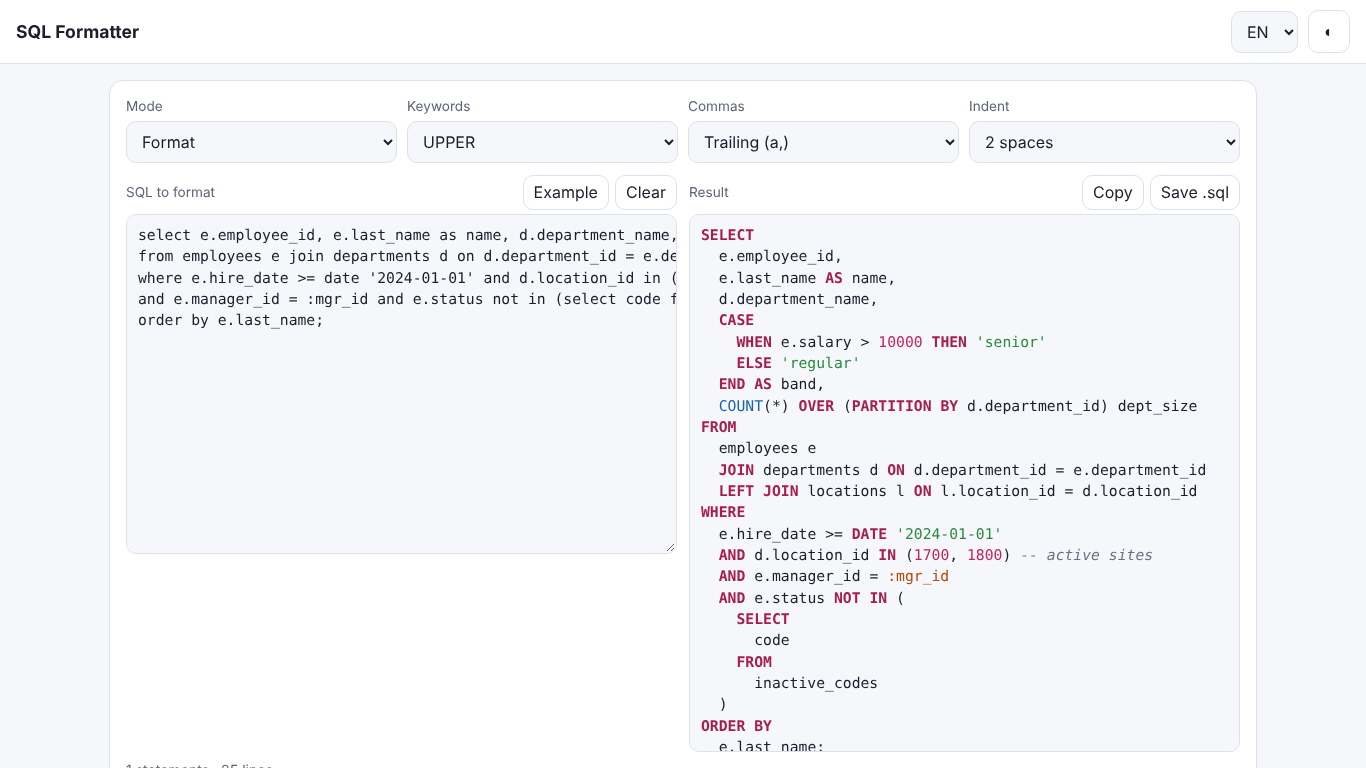
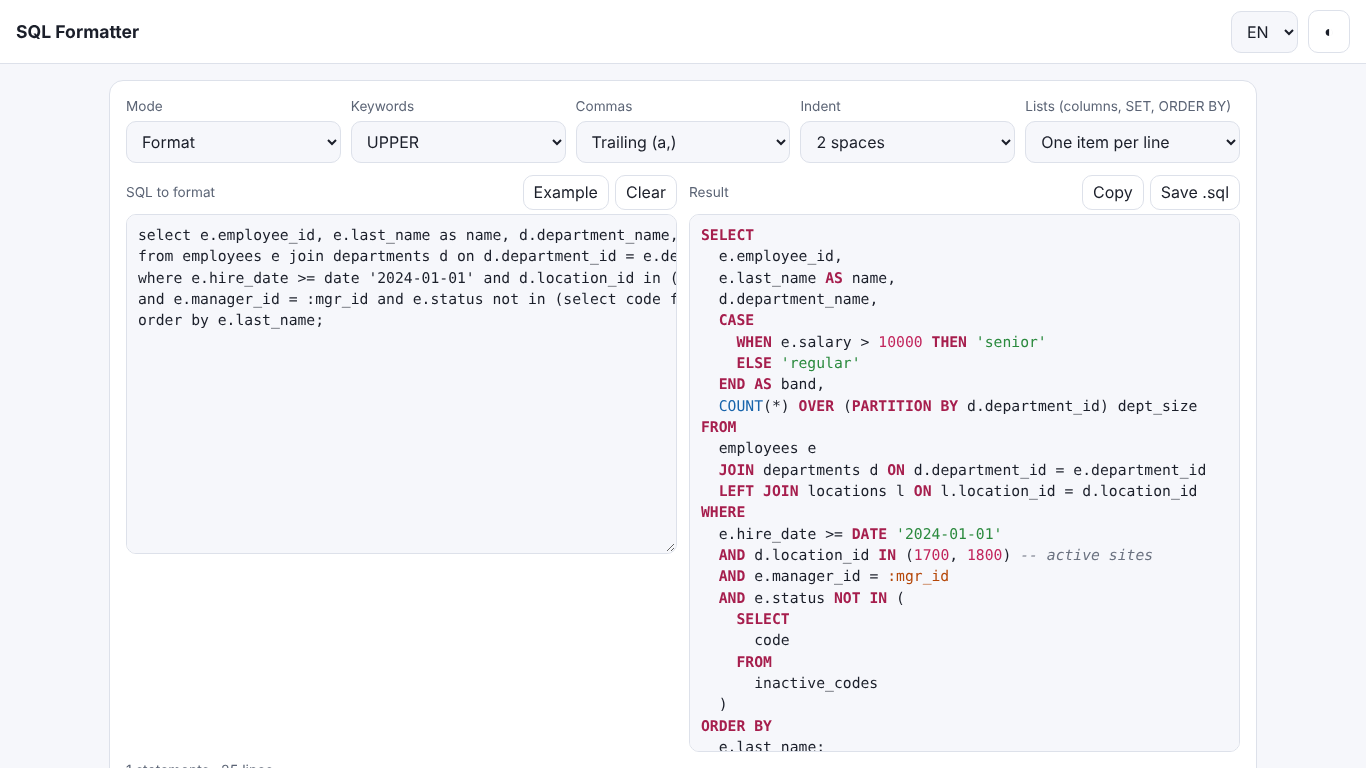
SQL Formatter 1.1: fill long lists to a line width, Pro compare two versions
Free: new "Lists" option fills columns, SET and ORDER BY items up to 80,
100 or 120 characters per line instead of one item per line (single-line
items only, never across comments).
Pro: compare two versions of a statement after formatting both the same
way, so only real changes show as added/removed lines.
Store screenshots regenerated (first screen has the new option).

Claude-Session: https://claude.ai/code/session_01YQDvpoPGKtNh935CpkWmt1

diff --git a/sql/app.js b/sql/app.js
@@ -2,9 +2,9 @@
   'use strict';
   const SKU = 'pro';
   const DICT = {
-    ro: { appName: 'Formatator SQL', mode: 'Mod', fmt: 'Formatează', minify: 'Pe un singur rând', kwCase: 'Cuvinte cheie', keep: 'Cum sunt scrise', commas: 'Virgule', trailing: 'La final (a,)', leading: 'La început (, a)', indent: 'Indentare', sp2: '2 spații', sp4: '4 spații', input: 'SQL de formatat', sample: 'Exemplu', output: 'Rezultat', dl: 'Salvează .sql', ph: 'Lipește SQL aici: SELECT, INSERT, UPDATE, DELETE, MERGE…', proOpts: 'PL/SQL și opțiuni avansate', plsqlOpt: 'Indentează blocurile PL/SQL', alignOpt: 'Aliniază aliasurile AS', idCase: 'Identificatori', splitTitle: 'Instrucțiunile din script', splitHint: 'Împarte după ; și după o linie cu /, păstrează blocurile PL/SQL întregi.', codeTitle: 'Copiază ca șir în cod', codeLang: 'Limbaj', snipTitle: 'Fragmente salvate', snipName: 'Nume', snipSave: 'Salvează SQL-ul curent', load: 'Deschide', del: 'Șterge', noSnips: 'Niciun fragment salvat.', proPitch: 'Indentarea blocurilor PL/SQL, majuscule pentru identificatori, aliasuri aliniate, împărțirea scriptului în instrucțiuni, copiere ca șir Java, C#, Python sau PL/SQL cu indicii pentru variabilele bind și fragmente salvate.', indep: 'SQL-ul tău nu părăsește dispozitivul. Unealtă independentă, fără legătură cu Oracle.', info: '{n} instrucțiuni · {l} rânduri', plsqlNote: 'Blocurile PL/SQL ({n}) sunt lăsate cum au fost scrise, doar cu majusculele aplicate. Indentarea lor este în Pro.', proLocked: 'Disponibil în Pro.', empty: 'Lipește SQL în stânga.', snipDef: 'Fragment {n}' },
-    en: { appName: 'SQL Formatter', mode: 'Mode', fmt: 'Format', minify: 'Minify (one line)', kwCase: 'Keywords', keep: 'Keep as typed', commas: 'Commas', trailing: 'Trailing (a,)', leading: 'Leading (, a)', indent: 'Indent', sp2: '2 spaces', sp4: '4 spaces', input: 'SQL to format', sample: 'Example', output: 'Result', dl: 'Save .sql', ph: 'Paste SQL here: SELECT, INSERT, UPDATE, DELETE, MERGE…', proOpts: 'PL/SQL and advanced options', plsqlOpt: 'Indent PL/SQL blocks', alignOpt: 'Align AS aliases', idCase: 'Identifiers', splitTitle: 'Statements in the script', splitHint: 'Splits on ; and on a / line, keeps PL/SQL blocks whole.', codeTitle: 'Copy as a string in code', codeLang: 'Language', snipTitle: 'Saved snippets', snipName: 'Name', snipSave: 'Save current SQL', load: 'Open', del: 'Delete', noSnips: 'No saved snippets.', proPitch: 'PL/SQL block indentation, identifier case, aligned aliases, splitting a script into statements, copy as a Java, C#, Python or PL/SQL string with bind hints, and saved snippets.', indep: 'Your SQL never leaves your device. Independent tool, not affiliated with Oracle.', info: '{n} statements · {l} lines', plsqlNote: 'PL/SQL blocks ({n}) are kept as written, with case applied. Indenting them is in Pro.', proLocked: 'Available in Pro.', empty: 'Paste SQL on the left.', snipDef: 'Snippet {n}' },
-    ru: { appName: 'Форматирование SQL', mode: 'Режим', fmt: 'Форматировать', minify: 'В одну строку', kwCase: 'Ключевые слова', keep: 'Как написано', commas: 'Запятые', trailing: 'В конце (a,)', leading: 'В начале (, a)', indent: 'Отступ', sp2: '2 пробела', sp4: '4 пробела', input: 'SQL для форматирования', sample: 'Пример', output: 'Результат', dl: 'Сохранить .sql', ph: 'Вставьте SQL: SELECT, INSERT, UPDATE, DELETE, MERGE…', proOpts: 'PL/SQL и дополнительные настройки', plsqlOpt: 'Отступы в блоках PL/SQL', alignOpt: 'Выравнивать псевдонимы AS', idCase: 'Идентификаторы', splitTitle: 'Команды в скрипте', splitHint: 'Делит по ; и по строке с /, блоки PL/SQL остаются целыми.', codeTitle: 'Копировать как строку в коде', codeLang: 'Язык', snipTitle: 'Сохранённые фрагменты', snipName: 'Название', snipSave: 'Сохранить текущий SQL', load: 'Открыть', del: 'Удалить', noSnips: 'Нет сохранённых фрагментов.', proPitch: 'Отступы в блоках PL/SQL, регистр идентификаторов, выравнивание псевдонимов, разбиение скрипта на команды, копирование строкой для Java, C#, Python или PL/SQL с подсказками по bind-переменным и сохранённые фрагменты.', indep: 'Ваш SQL не покидает устройство. Независимый инструмент, не связан с Oracle.', info: 'Команд: {n} · строк: {l}', plsqlNote: 'Блоки PL/SQL ({n}) оставлены как написаны, применён только регистр. Отступы в них — в Pro.', proLocked: 'Доступно в Pro.', empty: 'Вставьте SQL слева.', snipDef: 'Фрагмент {n}' }
+    ro: { appName: 'Formatator SQL', width: 'Liste (coloane, SET, ORDER BY)', w0: 'Un element pe rând', w80: 'Umple până la 80 de caractere', w100: 'Umple până la 100 de caractere', w120: 'Umple până la 120 de caractere', cmpTitle: 'Compară două variante', cmpLabel: 'Al doilea SQL, comparat cu cel de sus după ce ambele sunt formatate la fel', cmpSame: 'La fel după formatare.', cmpSum: '{a} rânduri adăugate · {r} eliminate', cmpEmpty: 'Lipește a doua variantă ca s-o compari.', cmpLong: 'Prea lung pentru comparare (peste 3000 de rânduri).', mode: 'Mod', fmt: 'Formatează', minify: 'Pe un singur rând', kwCase: 'Cuvinte cheie', keep: 'Cum sunt scrise', commas: 'Virgule', trailing: 'La final (a,)', leading: 'La început (, a)', indent: 'Indentare', sp2: '2 spații', sp4: '4 spații', input: 'SQL de formatat', sample: 'Exemplu', output: 'Rezultat', dl: 'Salvează .sql', ph: 'Lipește SQL aici: SELECT, INSERT, UPDATE, DELETE, MERGE…', proOpts: 'PL/SQL și opțiuni avansate', plsqlOpt: 'Indentează blocurile PL/SQL', alignOpt: 'Aliniază aliasurile AS', idCase: 'Identificatori', splitTitle: 'Instrucțiunile din script', splitHint: 'Împarte după ; și după o linie cu /, păstrează blocurile PL/SQL întregi.', codeTitle: 'Copiază ca șir în cod', codeLang: 'Limbaj', snipTitle: 'Fragmente salvate', snipName: 'Nume', snipSave: 'Salvează SQL-ul curent', load: 'Deschide', del: 'Șterge', noSnips: 'Niciun fragment salvat.', proPitch: 'Indentarea blocurilor PL/SQL, majuscule pentru identificatori, aliasuri aliniate, împărțirea scriptului în instrucțiuni, copiere ca șir Java, C#, Python sau PL/SQL cu indicii pentru variabilele bind, compararea a două variante și fragmente salvate.', indep: 'SQL-ul tău nu părăsește dispozitivul. Unealtă independentă, fără legătură cu Oracle.', info: '{n} instrucțiuni · {l} rânduri', plsqlNote: 'Blocurile PL/SQL ({n}) sunt lăsate cum au fost scrise, doar cu majusculele aplicate. Indentarea lor este în Pro.', proLocked: 'Disponibil în Pro.', empty: 'Lipește SQL în stânga.', snipDef: 'Fragment {n}' },
+    en: { appName: 'SQL Formatter', width: 'Lists (columns, SET, ORDER BY)', w0: 'One item per line', w80: 'Fill up to 80 characters', w100: 'Fill up to 100 characters', w120: 'Fill up to 120 characters', cmpTitle: 'Compare two versions', cmpLabel: 'Second SQL, compared with the input above after formatting both the same way', cmpSame: 'Same after formatting.', cmpSum: '{a} lines added · {r} removed', cmpEmpty: 'Paste the second version to compare it.', cmpLong: 'Too long to compare (over 3000 lines).', mode: 'Mode', fmt: 'Format', minify: 'Minify (one line)', kwCase: 'Keywords', keep: 'Keep as typed', commas: 'Commas', trailing: 'Trailing (a,)', leading: 'Leading (, a)', indent: 'Indent', sp2: '2 spaces', sp4: '4 spaces', input: 'SQL to format', sample: 'Example', output: 'Result', dl: 'Save .sql', ph: 'Paste SQL here: SELECT, INSERT, UPDATE, DELETE, MERGE…', proOpts: 'PL/SQL and advanced options', plsqlOpt: 'Indent PL/SQL blocks', alignOpt: 'Align AS aliases', idCase: 'Identifiers', splitTitle: 'Statements in the script', splitHint: 'Splits on ; and on a / line, keeps PL/SQL blocks whole.', codeTitle: 'Copy as a string in code', codeLang: 'Language', snipTitle: 'Saved snippets', snipName: 'Name', snipSave: 'Save current SQL', load: 'Open', del: 'Delete', noSnips: 'No saved snippets.', proPitch: 'PL/SQL block indentation, identifier case, aligned aliases, splitting a script into statements, copy as a Java, C#, Python or PL/SQL string with bind hints, comparing two versions, and saved snippets.', indep: 'Your SQL never leaves your device. Independent tool, not affiliated with Oracle.', info: '{n} statements · {l} lines', plsqlNote: 'PL/SQL blocks ({n}) are kept as written, with case applied. Indenting them is in Pro.', proLocked: 'Available in Pro.', empty: 'Paste SQL on the left.', snipDef: 'Snippet {n}' },
+    ru: { appName: 'Форматирование SQL', width: 'Списки (столбцы, SET, ORDER BY)', w0: 'Один элемент на строку', w80: 'Заполнять до 80 символов', w100: 'Заполнять до 100 символов', w120: 'Заполнять до 120 символов', cmpTitle: 'Сравнение двух версий', cmpLabel: 'Второй SQL, сравнивается с SQL выше после одинакового форматирования обоих', cmpSame: 'Совпадают после форматирования.', cmpSum: 'добавлено строк: {a} · удалено: {r}', cmpEmpty: 'Вставьте вторую версию для сравнения.', cmpLong: 'Слишком длинный текст для сравнения (более 3000 строк).', mode: 'Режим', fmt: 'Форматировать', minify: 'В одну строку', kwCase: 'Ключевые слова', keep: 'Как написано', commas: 'Запятые', trailing: 'В конце (a,)', leading: 'В начале (, a)', indent: 'Отступ', sp2: '2 пробела', sp4: '4 пробела', input: 'SQL для форматирования', sample: 'Пример', output: 'Результат', dl: 'Сохранить .sql', ph: 'Вставьте SQL: SELECT, INSERT, UPDATE, DELETE, MERGE…', proOpts: 'PL/SQL и дополнительные настройки', plsqlOpt: 'Отступы в блоках PL/SQL', alignOpt: 'Выравнивать псевдонимы AS', idCase: 'Идентификаторы', splitTitle: 'Команды в скрипте', splitHint: 'Делит по ; и по строке с /, блоки PL/SQL остаются целыми.', codeTitle: 'Копировать как строку в коде', codeLang: 'Язык', snipTitle: 'Сохранённые фрагменты', snipName: 'Название', snipSave: 'Сохранить текущий SQL', load: 'Открыть', del: 'Удалить', noSnips: 'Нет сохранённых фрагментов.', proPitch: 'Отступы в блоках PL/SQL, регистр идентификаторов, выравнивание псевдонимов, разбиение скрипта на команды, копирование строкой для Java, C#, Python или PL/SQL с подсказками по bind-переменным, сравнение двух версий и сохранённые фрагменты.', indep: 'Ваш SQL не покидает устройство. Независимый инструмент, не связан с Oracle.', info: 'Команд: {n} · строк: {l}', plsqlNote: 'Блоки PL/SQL ({n}) оставлены как написаны, применён только регистр. Отступы в них — в Pro.', proLocked: 'Доступно в Pro.', empty: 'Вставьте SQL слева.', snipDef: 'Фрагмент {n}' }
   };
   const SAMPLE = `select e.employee_id, e.last_name as name, d.department_name, case when e.salary > 10000 then 'senior' else 'regular' end as band
 from employees e join departments d on d.department_id = e.department_id
@@ -16,7 +16,7 @@ and e.manager_id = :mgr_id order by e.last_name;`;
   try { snips = JSON.parse(Core.store('sqlSnips') || '[]'); } catch (e) { snips = []; }
   let opts = {};
   try { opts = JSON.parse(Core.store('sqlOpts') || '{}') || {}; } catch (e) { opts = {}; }
-  const OPT_IDS = ['mode', 'kwCase', 'commas', 'indent', 'idCase', 'codeLang'];
+  const OPT_IDS = ['mode', 'kwCase', 'commas', 'indent', 'width', 'idCase', 'codeLang'];
   const CHK_IDS = ['plsql', 'alignAs'];
   for (const id of OPT_IDS) if (opts[id] != null && [...$(id).options].some(o => o.value === opts[id])) $(id).value = opts[id];
   for (const id of CHK_IDS) if (typeof opts[id] === 'boolean') $(id).checked = opts[id];
@@ -40,7 +40,7 @@ and e.manager_id = :mgr_id order by e.last_name;`;
   }
   function fmtOpts(minify) {
     return {
-      keywordCase: $('kwCase').value, commaStyle: $('commas').value, indent: +$('indent').value, minify,
+      keywordCase: $('kwCase').value, commaStyle: $('commas').value, indent: +$('indent').value, width: +$('width').value, minify,
       identCase: isPro ? $('idCase').value : 'keep', alignAs: isPro && $('alignAs').checked, plsql: isPro && $('plsql').checked
     };
   }
@@ -58,7 +58,24 @@ and e.manager_id = :mgr_id order by e.last_name;`;
     const showNote = !isPro && npl > 0 && $('mode').value === 'format';
     $('note').classList.toggle('hidden', !showNote);
     $('note').textContent = showNote ? Core.t('plsqlNote', { n: npl }) : '';
-    renderStmts(st); renderCode(src); renderSnips();
+    renderStmts(st); renderCode(src); renderCmp(src); renderSnips();
+  }
+  function renderCmp(src) {
+    const pre = $('cmpOut'), sum = $('cmpSum'), b = $('cmpSrc').value;
+    $('cmpSrc').disabled = !isPro;
+    if (!isPro) { sum.textContent = ''; return locked(pre); }
+    pre.textContent = '';
+    if (!b.trim()) { sum.textContent = Core.t('cmpEmpty'); return; }
+    let d;
+    try { d = F.compare(src, b, fmtOpts(false)); } catch (e) { sum.textContent = Core.t('cmpLong'); return; }
+    const a = d.filter(x => x.op === '+').length, r = d.filter(x => x.op === '-').length;
+    sum.textContent = a || r ? Core.t('cmpSum', { a, r }) : Core.t('cmpSame');
+    const frag = document.createDocumentFragment();
+    for (const x of d) {
+      if (x.op === ' ') { frag.append(document.createTextNode('  ' + x.line + '\n')); continue; }
+      const s = document.createElement('span'); s.className = x.op === '+' ? 'dA' : 'dR'; s.textContent = x.op + ' ' + x.line; frag.append(s);
+    }
+    pre.append(frag);
   }
   function locked(el) { el.textContent = ''; const p = document.createElement(el.tagName === 'PRE' ? 'span' : 'li'); p.className = 'muted'; p.style.listStyle = 'none'; p.textContent = Core.t('proLocked'); el.append(p); }
   function renderStmts(st) {
@@ -105,6 +122,9 @@ and e.manager_id = :mgr_id order by e.last_name;`;
   Core.init(DICT, render);
   lockPro();
   $('src').addEventListener('input', () => { Core.store('sqlSrc', $('src').value); render(); });
+  $('cmpSrc').value = Core.store('sqlCmp') || '';
+  renderCmp($('src').value);
+  $('cmpSrc').addEventListener('input', () => { Core.store('sqlCmp', $('cmpSrc').value); renderCmp($('src').value); });
   $('src').addEventListener('keydown', e => { // Tab inserează spații
     if (e.key !== 'Tab' || e.shiftKey || e.ctrlKey || e.altKey) return;
     e.preventDefault(); document.execCommand('insertText', false, '  ');

diff --git a/sql/logic.js b/sql/logic.js
@@ -559,7 +559,61 @@
     return s.split('\n').map(l => l.replace(/\s+$/, '')).join('\n');
   }
 
-  const DEF = { keywordCase: 'upper', identCase: 'keep', commaStyle: 'trailing', indent: 2, alignAs: false, plsql: true, minify: false };
+  /* Liste lungi (coloane, SET, ORDER BY…): pune mai multe elemente pe un rând, până la `width` caractere.
+     Se unesc doar elemente scrise pe un singur rând, fără comentarii și fără șiruri deschise. */
+  function wrapLists(text, width, commaStyle) {
+    width = Math.floor(+width);
+    if (!(width >= 20)) return text;
+    const L = String(text).split('\n'), lead = commaStyle === 'leading';
+    const ind = l => l.length - l.trimStart().length;
+    const safe = l => l.trim() && !/--|\/\*/.test(l) && ((l.match(/'/g) || []).length % 2 === 0) && !/"/.test(l.replace(/"[^"]*"/g, ''));
+    const single = i => i + 1 >= L.length || !L[i + 1].trim() || ind(L[i + 1]) <= ind(L[i]);
+    const out = [];
+    let i = 0;
+    while (i < L.length) {
+      const d = ind(L[i]), prev = out.length ? out[out.length - 1] : '';
+      const starts = L[i].trim() && (!prev.trim() || ind(prev) < d) && !(lead && L[i].trim().startsWith(','));
+      let j = i;
+      if (starts && safe(L[i]) && single(i)) {
+        // elementele următoare din aceeași listă
+        while (j + 1 < L.length && ind(L[j + 1]) === d && safe(L[j + 1]) && single(j + 1) &&
+          (lead ? L[j + 1].trim().startsWith(', ') : /,$/.test(L[j]))) j++;
+      }
+      if (j === i) { out.push(L[i]); i++; continue; }
+      const pad = L[i].slice(0, d);
+      let line = pad + L[i].trim();
+      for (let k = i + 1; k <= j; k++) {
+        const item = L[k].trim(), piece = lead ? item.replace(/^,\s*/, '') : item;
+        const next = line + (lead ? ', ' : ' ') + piece;
+        if (next.length <= width) line = next;
+        else { out.push(line); line = pad + (lead ? ', ' + piece : piece); }
+      }
+      out.push(line); i = j + 1;
+    }
+    return out.join('\n');
+  }
+
+  /* Pro: compară două variante după formatare (diferențele de spații și majuscule dispar) */
+  function diffLines(a, b) {
+    const A = a.split('\n'), B = b.split('\n');
+    if (A.length > 3000 || B.length > 3000) throw new Error('too long');
+    let p = 0; while (p < A.length && p < B.length && A[p] === B[p]) p++;
+    let q = 0; while (q < A.length - p && q < B.length - p && A[A.length - 1 - q] === B[B.length - 1 - q]) q++;
+    const a2 = A.slice(p, A.length - q), b2 = B.slice(p, B.length - q), n = a2.length, m = b2.length;
+    const dp = Array.from({ length: n + 1 }, () => new Uint16Array(m + 1));
+    for (let x = n - 1; x >= 0; x--) for (let y = m - 1; y >= 0; y--) dp[x][y] = a2[x] === b2[y] ? dp[x + 1][y + 1] + 1 : Math.max(dp[x + 1][y], dp[x][y + 1]);
+    const out = A.slice(0, p).map(line => ({ op: ' ', line }));
+    let x = 0, y = 0;
+    while (x < n || y < m) {
+      if (x < n && y < m && a2[x] === b2[y]) { out.push({ op: ' ', line: a2[x] }); x++; y++; }
+      else if (x < n && (y >= m || dp[x + 1][y] >= dp[x][y + 1])) out.push({ op: '-', line: a2[x++] });
+      else out.push({ op: '+', line: b2[y++] });
+    }
+    return out.concat(A.slice(A.length - q).map(line => ({ op: ' ', line })));
+  }
+  function compare(a, b, opts) { return diffLines(format(a, opts), format(b, opts)); }
+
+  const DEF = { keywordCase: 'upper', identCase: 'keep', commaStyle: 'trailing', indent: 2, alignAs: false, plsql: true, minify: false, width: 0 };
   function format(src, opts) {
     src = String(src == null ? '' : src);
     const o = Object.assign({}, DEF, opts);
@@ -586,7 +640,7 @@
       if (u.slash) { out.nl(0); out.put('/'); }
       prev = u;
     }
-    return out.text(o.alignAs);
+    return wrapLists(out.text(o.alignAs), o.width, o.commaStyle);
   }
 
   /* Pro: lista instrucțiunilor dintr-un script */
@@ -660,7 +714,7 @@
     return parts.join('\n\n');
   }
 
-  const SqlFormatter = { tokenize, lex, split, statements, classify, format, highlight, toCode, KW, FN };
+  const SqlFormatter = { tokenize, lex, split, statements, classify, format, wrapLists, diffLines, compare, highlight, toCode, KW, FN };
   if (typeof module !== 'undefined' && module.exports) module.exports = SqlFormatter;
   else global.SqlFormatter = SqlFormatter;
 })(typeof window !== 'undefined' ? window : globalThis);

diff --git a/sql/index.html b/sql/index.html
@@ -38,6 +38,9 @@
   ol.stm code { font-size: .85rem; overflow-wrap: anywhere; }
   ol.stm button, ul.plain button { padding: 4px 10px; }
   ul.plain li span { overflow-wrap: anywhere; }
+  pre .dA { color: var(--ok); background: color-mix(in srgb, var(--ok) 12%, transparent); display: block; }
+  pre .dR { color: var(--warn); background: color-mix(in srgb, var(--warn) 12%, transparent); display: block; }
+  textarea#cmpSrc { min-height: 140px; white-space: pre; overflow-wrap: normal; overflow-x: auto; }
   .kind { font-size: .72rem; font-weight: 700; padding: 1px 6px; border-radius: 6px; border: 1px solid var(--border); color: var(--muted); }
 </style>
 </head>
@@ -60,6 +63,8 @@
         <select id="commas"><option value="trailing" data-i18n="trailing">Trailing (a,)</option><option value="leading" data-i18n="leading">Leading (, a)</option></select></div>
       <div><label for="indent" data-i18n="indent">Indent</label>
         <select id="indent"><option value="2" data-i18n="sp2">2 spaces</option><option value="4" data-i18n="sp4">4 spaces</option></select></div>
+      <div><label for="width" data-i18n="width">Lists (columns, SET, ORDER BY)</label>
+        <select id="width"><option value="0" data-i18n="w0">One item per line</option><option value="80" data-i18n="w80">Fill up to 80 characters</option><option value="100" data-i18n="w100">Fill up to 100 characters</option><option value="120" data-i18n="w120">Fill up to 120 characters</option></select></div>
     </div>
     <div class="io">
       <div>
@@ -100,6 +105,13 @@
     <pre class="code small" id="code" style="margin-top:10px"></pre>
   </section>
   <section class="card">
+    <h2 class="t"><span data-i18n="cmpTitle">Compare two versions</span> <span class="pro-badge">PRO</span></h2>
+    <label for="cmpSrc" data-i18n="cmpLabel">Second SQL, compared with the input above after formatting both the same way</label>
+    <textarea id="cmpSrc" spellcheck="false" autocomplete="off"></textarea>
+    <p class="muted" id="cmpSum" aria-live="polite" style="margin:8px 0"></p>
+    <pre class="code small" id="cmpOut"></pre>
+  </section>
+  <section class="card">
     <h2 class="t"><span data-i18n="snipTitle">Saved snippets</span> <span class="pro-badge">PRO</span></h2>
     <div class="row">
       <div><label for="snipName" data-i18n="snipName">Name</label><input id="snipName" maxlength="80"></div>
@@ -109,7 +121,7 @@
   </section>
   <section class="card pro-box hidden" id="proBox">
     <h2 class="t" style="margin-bottom:6px" data-i18n="proTitle">Pro version</h2>
-    <p class="muted" data-i18n="proPitch">PL/SQL block indentation, identifier case, aligned aliases, splitting a script into statements, copy as a Java, C#, Python or PL/SQL string with bind hints, and saved snippets.</p>
+    <p class="muted" data-i18n="proPitch">PL/SQL block indentation, identifier case, aligned aliases, splitting a script into statements, copy as a Java, C#, Python or PL/SQL string with bind hints, comparing two versions, and saved snippets.</p>
     <button class="primary" id="proBuy" data-i18n="proBuy">Unlock Pro</button>
     <p class="muted" id="proStatus"></p>
   </section>

diff --git a/tests/e2e.js b/tests/e2e.js
@@ -1386,6 +1386,41 @@ async function newPage(browser, base, opts = {}) {
     await ctx.close();
   });
 
+  await check('sql v1.1: fill lists up to a line width (free), compare two versions (Pro)', async () => {
+    let { ctx, page } = await newPage(browser, base);
+    await page.goto(base + 'sql/');
+    await page.fill('#src', 'select aaaa, bbbb, cccc, dddd, eeee, ffff, gggg, hhhh, iiii, jjjj, kkkk, llll, mmmm, nnnn, oooo, pppp from t order by aaaa, bbbb');
+    assert.match(await page.textContent('#out'), /^SELECT\n  aaaa,\n  bbbb,/);
+    await page.selectOption('#width', '80');
+    assert.equal(await page.textContent('#out'), 'SELECT\n  aaaa, bbbb, cccc, dddd, eeee, ffff, gggg, hhhh, iiii, jjjj, kkkk, llll, mmmm,\n  nnnn, oooo, pppp\nFROM\n  t\nORDER BY\n  aaaa, bbbb');
+    assert.equal(await page.textContent('#out .k'), 'SELECT');
+    assert.ok(await page.isDisabled('#cmpSrc'));
+    assert.equal(await page.textContent('#cmpOut'), 'Available in Pro.');
+    await page.reload();
+    assert.equal(await page.inputValue('#width'), '80', 'width not kept');
+    await page.selectOption('#lang', 'ro');
+    assert.equal(await page.textContent('#width option[value="100"]'), 'Umple până la 100 de caractere');
+    assert.deepEqual(page.errors, []);
+    await ctx.close();
+    ({ ctx, page } = await newPage(browser, base, { pro: true }));
+    await page.goto(base + 'sql/');
+    await page.waitForFunction(() => !document.getElementById('cmpSrc').disabled);
+    assert.equal(await page.textContent('#cmpSum'), 'Paste the second version to compare it.');
+    await page.fill('#src', 'select a, b from t where x = 1');
+    await page.fill('#cmpSrc', 'SELECT a,\n       c\nFROM   t\nWHERE  x = 1');
+    assert.equal(await page.textContent('#cmpSum'), '1 lines added · 1 removed');
+    assert.deepEqual(await page.locator('#cmpOut .dR').allTextContents(), ['-   b']);
+    assert.deepEqual(await page.locator('#cmpOut .dA').allTextContents(), ['+   c']);
+    await page.fill('#cmpSrc', 'SELECT a,b FROM t WHERE x=1');
+    assert.equal(await page.textContent('#cmpSum'), 'Same after formatting.');
+    await page.reload();
+    await page.waitForFunction(() => !document.getElementById('cmpSrc').disabled);
+    assert.equal(await page.inputValue('#cmpSrc'), 'SELECT a,b FROM t WHERE x=1', 'second SQL not kept');
+    assert.equal(await page.textContent('#cmpSum'), 'Same after formatting.');
+    assert.deepEqual(page.errors, []);
+    await ctx.close();
+  });
+
   await check('ora v1.2: highlights and recent searches (free), results as Markdown table (Pro)', async () => {
     let { ctx, page } = await newPage(browser, base);
     await page.goto(base + 'ora/');

diff --git a/tests/unit.test.js b/tests/unit.test.js
@@ -1242,3 +1242,19 @@ test('json v1.1: structure and types (free), TypeScript interfaces (Pro)', () =>
   assert.equal(JF.toTypeScript(5), 'export type Root = number;\n');
   assert.equal(JF.toTypeScript({ '2d': { 'ăb-c': 1 } }), 'export interface Root {\n  "2d": T2d;\n}\n\nexport interface T2d {\n  "ăb-c": number;\n}\n');
 });
+
+test('sql v1.1: fill lists up to a line width (free), compare two versions (Pro)', () => {
+  const q = "select e.employee_id, e.last_name as name, d.department_name, e.salary, e.hire_date, e.email, e.phone_number, case when e.salary > 10000 then 'senior' else 'regular' end as band, count(*) over (partition by d.department_id) dept_size from employees e order by e.last_name, e.first_name;";
+  assert.equal(SQ.format(q, { width: 80 }),
+    'SELECT\n  e.employee_id, e.last_name AS name, d.department_name, e.salary, e.hire_date,\n  e.email, e.phone_number,\n' +
+    "  CASE\n    WHEN e.salary > 10000 THEN 'senior'\n    ELSE 'regular'\n  END AS band,\n  COUNT(*) OVER (PARTITION BY d.department_id) dept_size\nFROM\n  employees e\nORDER BY\n  e.last_name, e.first_name;");
+  assert.equal(SQ.format('select a, b, c, d from t', { width: 0 }), 'SELECT\n  a,\n  b,\n  c,\n  d\nFROM\n  t');
+  assert.equal(SQ.format('select aaaa, bbbb, cccc, dddd from t', { width: 20, commaStyle: 'leading' }), 'SELECT\n  aaaa, bbbb, cccc\n  , dddd\nFROM\n  t');
+  assert.equal(SQ.format("update t set a = 1, b = 'x,y', c = 3 -- c\n, d = 4 where id = 1", { width: 80 }), "UPDATE t\nSET\n  a = 1, b = 'x,y',\n  c = 3, -- c\n  d = 4\nWHERE\n  id = 1");
+  assert.equal(SQ.format('select a, b from t', { width: 80, minify: true }), 'SELECT a, b FROM t');
+  assert.equal(SQ.wrapLists('x\n  a,\n  b', 5), 'x\n  a,\n  b', 'width below 20 is ignored');
+  assert.equal(SQ.compare('select a,b from t where x=1', 'SELECT a, c FROM t WHERE x = 1').map(d => d.op + d.line).join('|'), ' SELECT|   a,|-  b|+  c| FROM|   t| WHERE|   x = 1');
+  assert.ok(SQ.compare('select 1 from dual', 'SELECT 1\nFROM   dual').every(d => d.op === ' '));
+  assert.deepEqual(SQ.diffLines('a', 'a\nb'), [{ op: ' ', line: 'a' }, { op: '+', line: 'b' }]);
+  assert.throws(() => SQ.diffLines('x\n'.repeat(3001), 'y'));
+});
